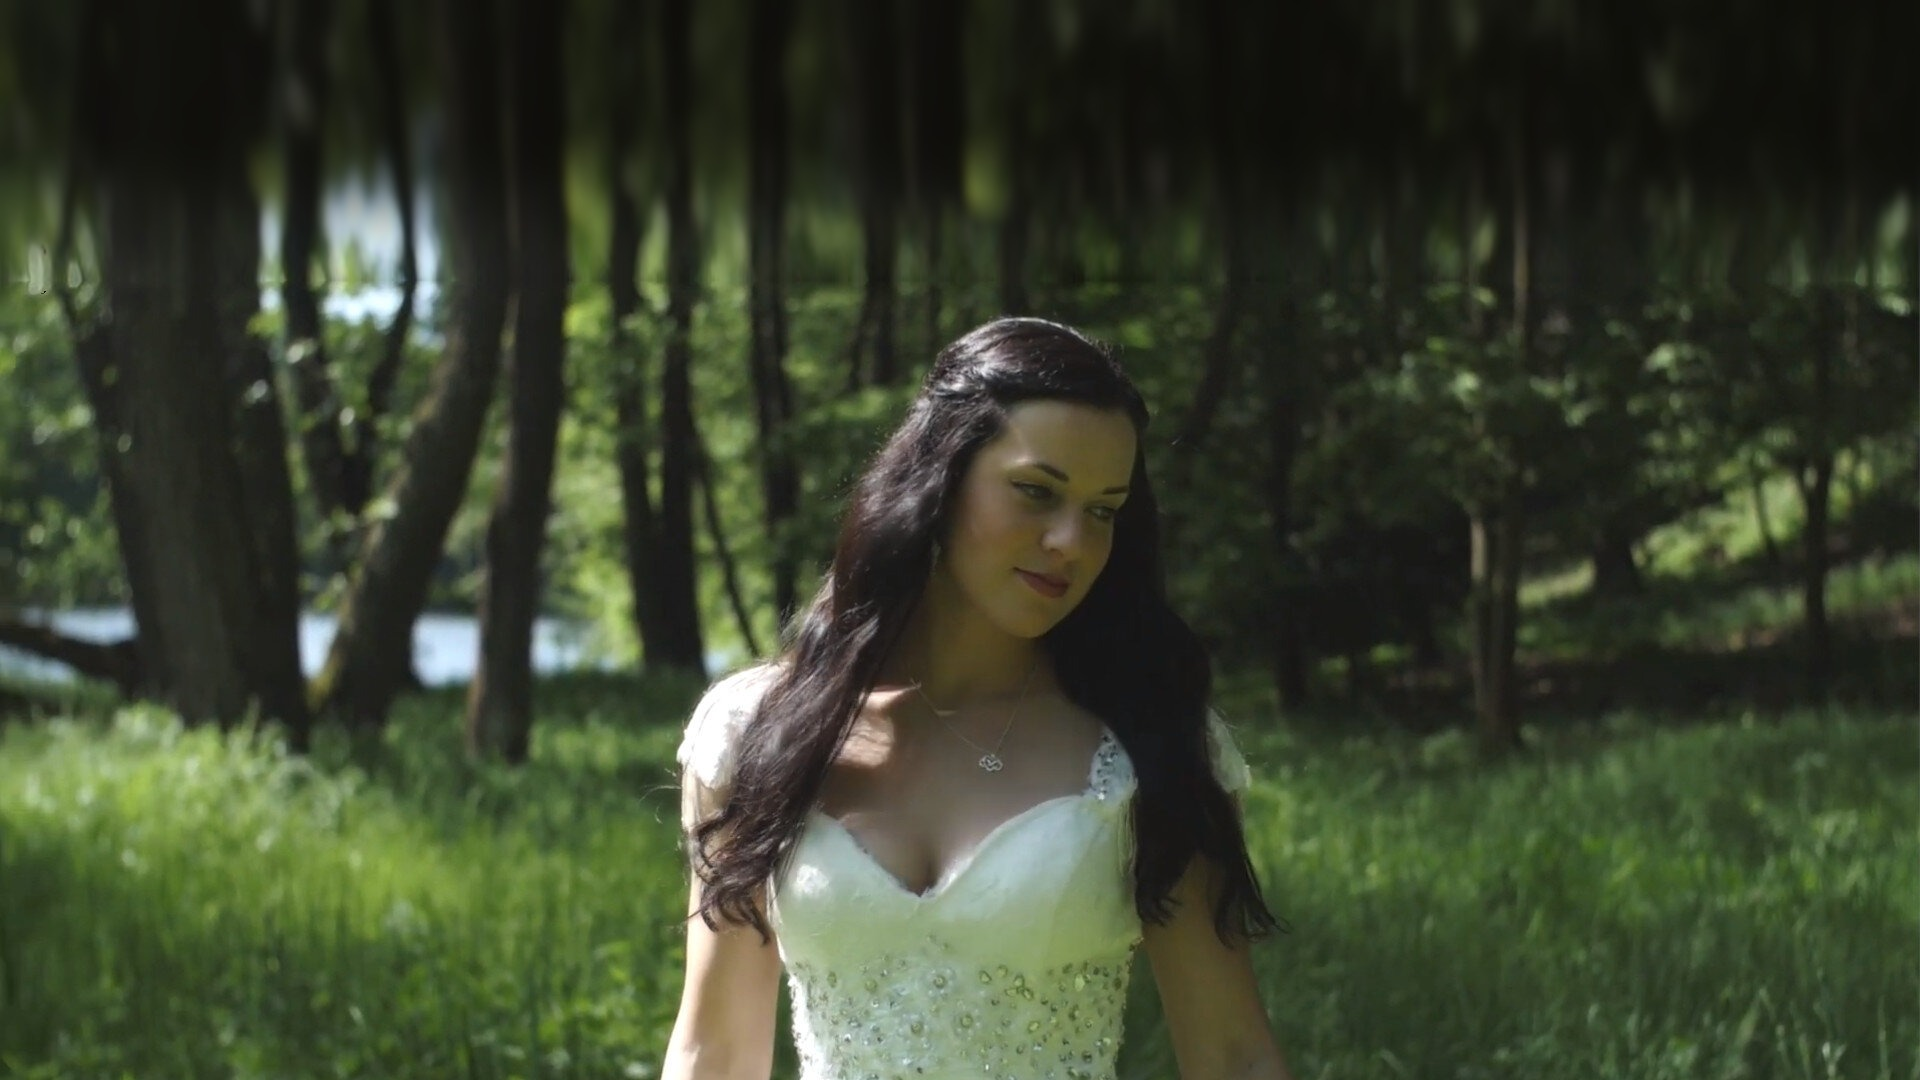
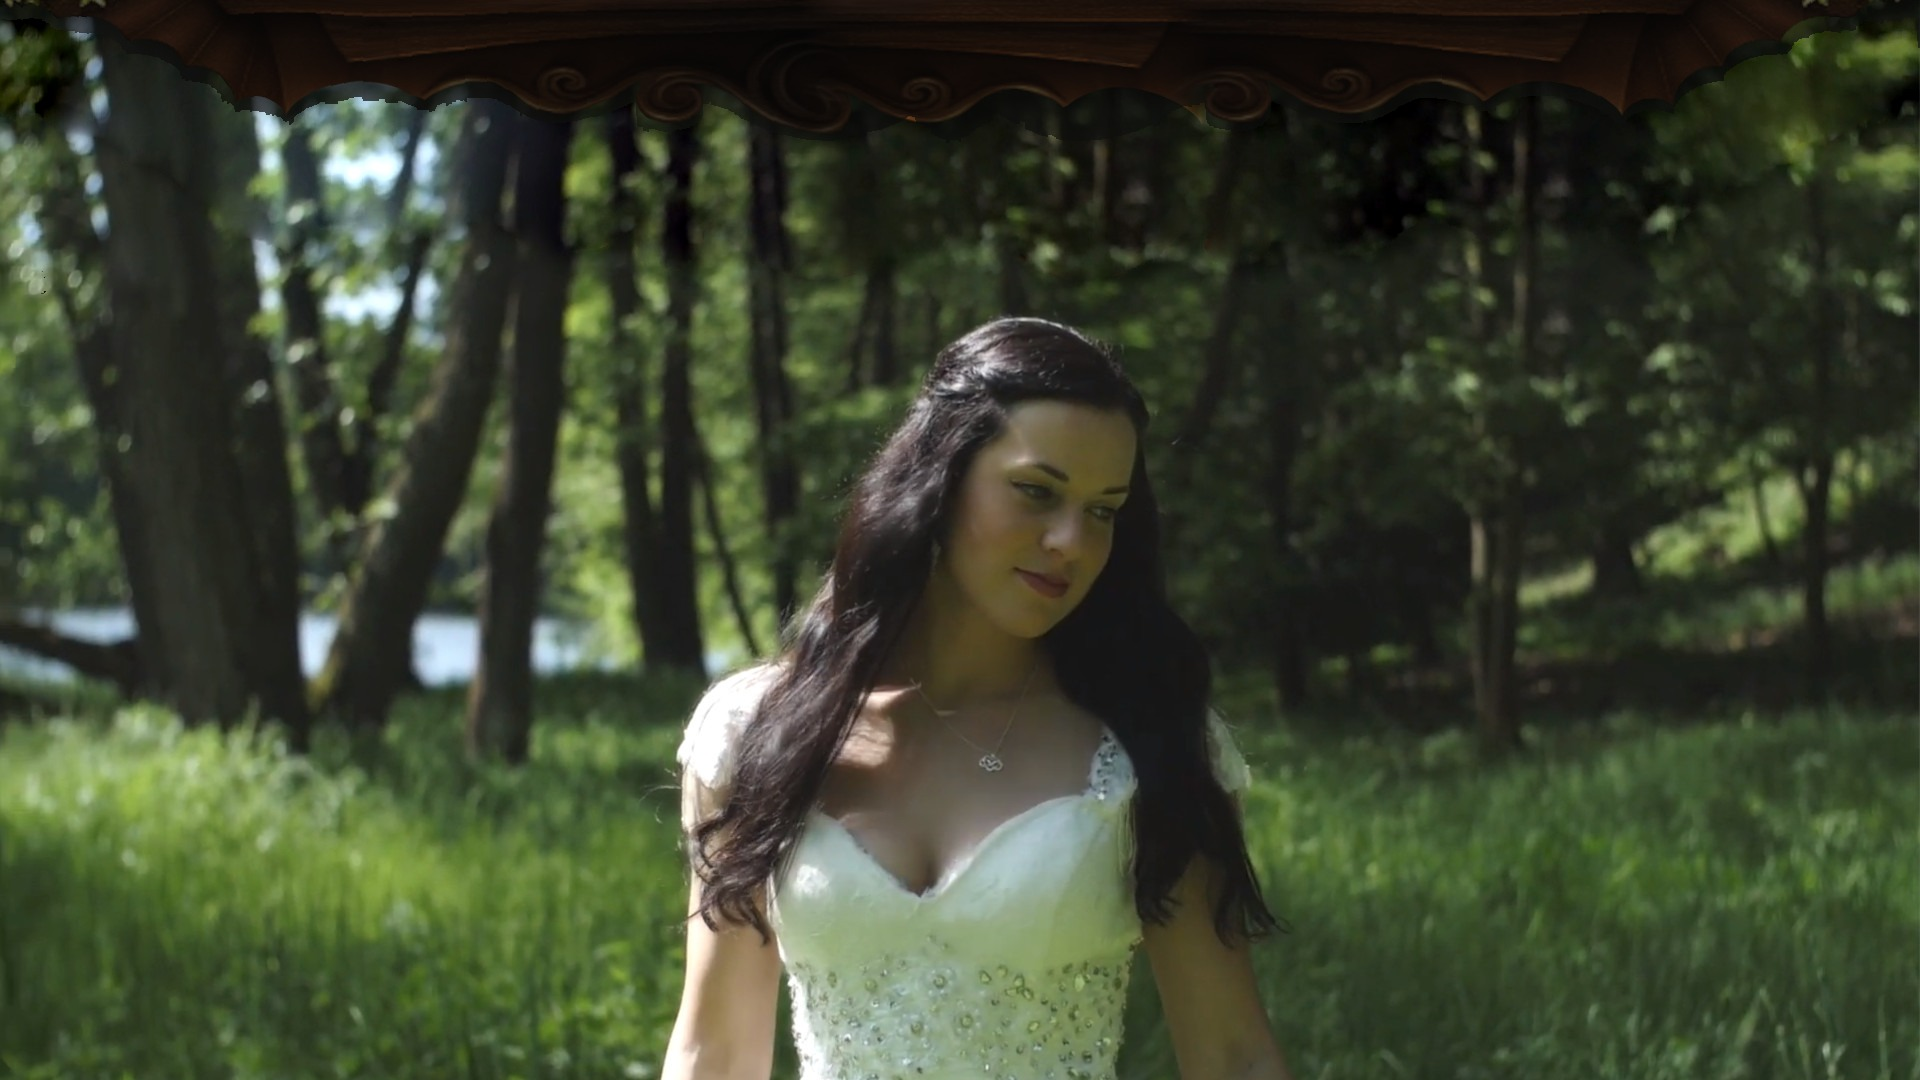
fix(drevo-a-erb-v3): real forest under the plank, rounded log ends, no halo
Review fixes from comparing v3 with v2 at 1280, 1440 and 1920:

- Under the plank the photo is now the header's own forest wherever
  v2 showed it. Only the area the old plank covered is filled, with
  forest copied up from below and Poisson-blended into the real
  pixels. Around the client's head the fill comes from beside her.
  This removes the vertical smear and the dark band under the wing
  ends, and also the old shield's shadow.
- The board's barrel-shaped end caps are squeezed into the slimmer
  board instead of being cut, so the log ends stay rounded. The ivy
  and wings at the ends sit behind the caps, and the moss strip
  covers the ivy edge the cap used to hide.
- Light or green fringe pixels baked in just inside the carved edge
  are made transparent, which removes the halo on the left scallops.

The plank heights are unchanged.

diff --git a/tools/hero-v3/build_layers.py b/tools/hero-v3/build_layers.py
@@ -1,8 +1,8 @@
 """Build the Dřevo a erb v3 hero layers from the project's own artwork.
 
 Writes assets/v3/plank.png + plank.webp (carved plank cut out of forest-header.jpg, rebuilt behind
-the shield, 74 source rows slimmer) and assets/v3/hero-forest.jpg (forest-only.jpg in its original
-place, with the rows above it filled from its own top rows).
+the shield, 74 source rows slimmer) and assets/v3/hero-forest.jpg (the same forest frame with the
+old plank area filled from the photo's own pixels).
 
 usage (from the repo root):
   python3 tools/hero-v3/build_layers.py                  # Lanczos 2x plank
@@ -14,6 +14,8 @@ import sys
 import numpy as np
 from PIL import Image, ImageFilter
 from scipy import ndimage as ndi
+from scipy.sparse import coo_matrix
+from scipy.sparse.linalg import cg
 
 ROOT = os.path.abspath(os.path.join(os.path.dirname(__file__), "..", ".."))
 A = os.path.join(ROOT, "assets")
@@ -22,11 +24,20 @@ OUT_SCALE = 2  # plank is written at 3840 px wide
 
 H1, W1 = 300, 1920
 CAP_L, CAP_R = 195, 1713     # board end caps; columns outside them are the ends (ivy, wing)
-BAND = (70, 144)             # plain board rows removed in board columns
+BOARD = (16, 150)            # rows of the top board, barrel-shaped caps included
+BAND = (70, 144)             # plain board rows removed
 DELTA = BAND[1] - BAND[0]
-END_BACK_SHIFT = 40          # the ends' top rows are backed by the same columns moved up this much
-MOSS_FADE = (14, 24)         # ...fading out between these rows, so the moss strip runs full width
+MOSS_FADE = (12, 21)         # the moss strip along the top fades out between these rows
 LEAF = (1232, 1338, 58, 94)  # the one ivy leaf that hangs into the cut band stays in place
+PLANK_SCALE_MIN = 0.75       # lowest plank-to-photo scale ratio the hero produces (wide-short screens = 1)
+
+
+def cap_left(y):   # barrel-shaped left end of the board, x of its outer edge per source row
+    return 197 + 0.0018 * (y - 65) ** 2
+
+
+def cap_right(y):
+    return 1715 - 0.0018 * (y - 65) ** 2
 
 
 def hsv(img):
@@ -38,7 +49,7 @@ def hsv(img):
 
 
 def plank_boundary(hdr):
-    """Row per column where the plank ends and the photo starts (plank above), plus a sub-pixel refine."""
+    """Row per column where the plank ends and the photo starts (plank above), refined to sub-pixel."""
     H = 330
     rgb = hdr[:H]
     hue, sat, _ = hsv(rgb)
@@ -71,7 +82,6 @@ def plank_boundary(hdr):
     yb[-1] = int(np.argmin(acc))
     for x in range(W1 - 1, 0, -1):
         yb[x - 1] = back[yb[x], x]
-    # refine to the strongest vertical colour change near the path
     sm = ndi.gaussian_filter(hdr[:H1], sigma=(0.7, 0.7, 0))
     gy = np.abs(np.diff(sm, axis=0)).sum(-1)
     ysub = np.empty(W1, np.float32)
@@ -113,7 +123,7 @@ def shield_hole(hdr):
     hole = np.zeros(hdr.shape[:2], np.float32)
     y0 = max(oy, 0)
     hole[y0:oy + h, ox:ox + w] = s[y0 - oy:, :, 3]
-    return ndi.binary_dilation(hole > 0.04, iterations=2)[:H1]
+    return ndi.binary_dilation(hole > 0.04, iterations=2)
 
 
 def over(top, bot):
@@ -123,31 +133,43 @@ def over(top, bot):
     return np.concatenate([oc, oa], -1)
 
 
-def build_plank(hdr, strip, S):
-    ysub = plank_boundary(hdr)
-    hole1 = shield_hole(hdr)
-    hue, sat, mx = hsv(hdr[:H1])
-    ivy1 = ((hue > 50) & (hue < 120) & (sat > 0.22) & (mx > 0.18))
+def with_alpha(img, m):
+    return np.concatenate([img[..., :3], img[..., 3:4] * m[..., None]], -1)
+
+
+def shift_up(img, n):
+    return np.concatenate([img[n:], np.zeros_like(img[:n])], 0)
+
+
+def build_plank(hdr, ysub, hole1, strip, S):
+    hue, sat, val = hsv(hdr[:H1])
+    ivy1 = (hue > 50) & (hue < 120) & (sat > 0.22) & (val > 0.18)
     ivy1 = ndi.binary_dilation(ndi.binary_closing(ivy1, iterations=1), iterations=1).astype(np.float32)
+    # photo fringe baked into the carved edge: light or green/blue pixels just inside the contour
+    rows1 = np.arange(H1)[:, None]
+    near = (rows1 >= np.floor(ysub)[None, :] - 3) & (rows1 <= np.floor(ysub)[None, :] + 1)
+    warm = ((hue <= 48) | (hue >= 335)) & (sat >= 0.15)
+    whitish = (sat < 0.18) & (val > 0.45)
+    fringe1 = (near & (~warm | whitish) & (val > 0.3)).astype(np.float32)
 
     H, W = H1 * S, W1 * S
-    st = strip.copy()
     up = lambda m: m.astype(np.float32) if S == 1 else np.asarray(
-        Image.fromarray((m * 255).astype(np.uint8)).resize((W, H), Image.BILINEAR)).astype(np.float32) / 255
-
+        Image.fromarray((np.clip(m, 0, 1) * 255).astype(np.uint8)).resize((W, H), Image.BILINEAR)).astype(np.float32) / 255
     xs = (np.arange(W) + 0.5) / S - 0.5
-    yS = S * (np.interp(xs, np.arange(W1), ysub) - 0.35)  # sit just inside the carved edge
     rows = np.arange(H, dtype=np.float32)[:, None]
+
+    st = strip.copy()
+    yS = S * (np.interp(xs, np.arange(W1), ysub) - 0.35)
     alpha = ndi.gaussian_filter(np.clip(yS[None, :] - rows, 0, 1), 0.45 * S)
-    inner = np.vstack([st[:2 * S], st[:-2 * S]])  # edge pixels take the wood colour from inside
-    edge = (alpha > 0.002) & (alpha < 0.995)
+    alpha = alpha * (1 - ndi.gaussian_filter(up(fringe1), 0.5 * S))
+    inner = np.vstack([st[:3 * S], st[:-3 * S]])  # edge pixels take the wood colour from inside
+    edge = (alpha > 0.002) & (rows >= (yS[None, :] - 4 * S))
     st[edge] = inner[edge]
     P = np.dstack([st, alpha])
 
-    # rebuild the wood behind the shield: mirror both neighbours inward and cross-fade in the middle.
-    # Above the rail the mirror axes are fixed at the shield's full width, so the board grain and ivy
-    # mirror straight instead of following the diagonal shield wings.
-    hole = ndi.binary_dilation(up(hole1) > 0.5, iterations=S)
+    # rebuild the wood behind the shield: mirror both neighbours inward and cross-fade in the middle;
+    # above the rail the mirror axes are fixed at the shield's full width so grain and ivy stay straight
+    hole = ndi.binary_dilation(up(hole1[:H1].astype(np.float32)) > 0.5, iterations=S)
     hx = np.where(hole.any(0))[0]
     box = (int(hx.min()), int(hx.max()))
     pre = P.copy(); pre[..., :3] *= pre[..., 3:4]
@@ -163,18 +185,54 @@ def build_plank(hdr, strip, S):
     a = pre[..., 3:4]
     P = np.concatenate([np.where(a > 1e-4, pre[..., :3] / np.maximum(a, 1e-4), 0), a], -1)
 
-    shift_up = lambda img, n: np.concatenate([img[n:], np.zeros_like(img[:n])], 0)
-    O = np.zeros_like(P)
-    cl, cr = CAP_L * S, CAP_R * S
-    b1, b2, dl, bs = BAND[0] * S, BAND[1] * S, DELTA * S, END_BACK_SHIFT * S
-    O[:b1, cl:cr + 1] = P[:b1, cl:cr + 1]
-    O[b1:H - dl, cl:cr + 1] = P[b2:, cl:cr + 1]
-    fade = np.clip((MOSS_FADE[1] * S - rows) / ((MOSS_FADE[1] - MOSS_FADE[0]) * S), 0, 1)[..., None]
-    for sl in (np.s_[:, :cl], np.s_[:, cr + 1:]):
-        seg = P[sl]
-        back = shift_up(seg, bs)
-        back = np.concatenate([back[..., :3], back[..., 3:4] * fade], -1)
-        O[sl] = over(shift_up(seg, dl), back)
+    # split into the board (with its barrel-shaped end caps) and the ends (ivy, moss, wings)
+    ysrc = (rows + 0.5) / S - 0.5
+    xsrc = xs[None, :]
+    in_board_rows = (ysrc >= BOARD[0]) & (ysrc <= BOARD[1])
+    mb = ((xsrc >= CAP_L) & (xsrc <= CAP_R)).astype(np.float32) * np.ones_like(ysrc)
+    capl = np.clip((xsrc - cap_left(ysrc)) * S + 0.5, 0, 1)
+    capr = np.clip((cap_right(ysrc) - xsrc) * S + 0.5, 0, 1)
+    zone_l = (xsrc >= CAP_L - 10) & (xsrc <= 222)
+    zone_r = (xsrc >= 1690) & (xsrc <= CAP_R + 8)
+    mb = np.where(in_board_rows & zone_l, capl, mb)
+    mb = np.where(in_board_rows & zone_r, capr, mb)
+    ends = (xsrc < 230) | (xsrc > 1683)
+    B = with_alpha(P, mb)
+    E = with_alpha(P, (1 - mb) * ends)
+
+    b1, b2, dl = BAND[0] * S, BAND[1] * S, DELTA * S
+    Bc = np.zeros_like(B)
+    Bc[:b1] = B[:b1]
+    Bc[b1:H - dl] = B[b2:]
+    # caps: squeeze the whole board height into the slimmer board so the barrel ends stay rounded
+    top, bot = BOARD[0] * S, BOARD[1] * S
+    new_bot = bot - dl
+    yo = np.arange(top, new_bot + 1)
+    yi = top + (yo - top) * (bot - top) / (new_bot - top)
+    y0i = np.floor(yi).astype(int); fy = (yi - y0i)[:, None, None]
+    Bpre = B.copy(); Bpre[..., :3] *= Bpre[..., 3:4]
+    C = Bpre[y0i] * (1 - fy) + Bpre[np.minimum(y0i + 1, H - 1)] * fy
+    wx = np.clip(np.maximum((246 - xs) / 30.0, (xs - 1662) / 30.0), 0, 1)[None, :, None]
+    Bcp = Bc.copy(); Bcp[..., :3] *= Bcp[..., 3:4]
+    Bcp[top:new_bot + 1] = Bcp[top:new_bot + 1] * (1 - wx) + C * wx
+    a = Bcp[..., 3:4]
+    Bf = np.concatenate([np.where(a > 1e-4, Bcp[..., :3] / np.maximum(a, 1e-4), 0), a], -1)
+
+    Es = shift_up(E, dl)
+    # behind the cap edges, carry the shifted ivy/wing a few pixels further in so no gap opens
+    for x0, x1, step in ((int(185 * S), int(214 * S), 1), (int(1716 * S), int(1694 * S), -1)):
+        for x in range(x0, x1, step):
+            m = (Es[:, x, 3] < 0.5) & (Es[:, x - step, 3] >= 0.5) & (np.arange(H) < 90 * S)
+            Es[m, x] = Es[m, x - step]
+    # the moss strip stays where it is across the full width, behind the raised ivy and the board;
+    # above the caps it also lies in front of the ivy, so the ivy's edge that the cap used to hide fades into it
+    fade = np.clip((MOSS_FADE[1] * S - rows) / ((MOSS_FADE[1] - MOSS_FADE[0]) * S), 0, 1)
+    moss = with_alpha(P, fade.repeat(W, 1))
+    reach = np.clip(np.minimum((xs - 178) / 18.0, (1735 - xs) / 18.0), 0, 1)[None, :]
+    moss_front = with_alpha(P, fade * reach)
+    body = with_alpha(Bf, (rows >= BOARD[0] * S).astype(np.float32).repeat(W, 1))
+    O = over(body, over(moss_front, over(Es, moss)))
+
     lx0, lx1, ly0, ly1 = [v * S for v in LEAF]
     leaf = np.zeros_like(P)
     lm = ndi.gaussian_filter(up(ivy1)[ly0:ly1, lx0:lx1][..., None], (0.6 * S, 0.6 * S, 0))
@@ -184,39 +242,63 @@ def build_plank(hdr, strip, S):
     return O[:bottom]
 
 
-def build_photo():
-    fo = np.asarray(Image.open(os.path.join(A, "forest-only.jpg")).convert("RGB")).astype(np.float32) / 255
-    TOP = 280
-    src = fo[:TOP].copy()
-    # swap the client's head (top of forest-only, x ~850-1180) for forest beside it before mirroring
-    x = np.arange(W1)
-    wx = np.clip(np.minimum(x - 820, 1210 - x) / 40.0, 0, 1)
-    wy = np.clip((np.arange(TOP) - 22) / 14.0, 0, 1)[:, None]
-    w = (wy * wx[None, :])[..., None]
-    left, right = np.roll(fo[:TOP], 400, axis=1), np.roll(fo[:TOP], -400, axis=1)
-    side = np.where((x < 1015)[None, :, None], left, right)
-    seam = np.clip(1 - np.abs(x - 1015) / 30.0, 0, 1)[None, :, None]
-    side = side * (1 - seam) + 0.5 * (left + right) * seam
-    src = src * (1 - w) + side * w
-    # mirrored and stretched 2.5x upward, blurring and darkening with distance from the seam
-    d = (TOP - 1 - np.arange(TOP)).astype(np.float32)
-    s = d * 0.4
-    s0 = np.floor(s).astype(int); f = (s - s0)[:, None, None]
-    band = src[s0] * (1 - f) + src[np.minimum(s0 + 1, TOP - 1)] * f
-    levels = [0, 1.5, 3, 5, 8]
-    blurred = [band if v == 0 else ndi.gaussian_filter(band, (v, v * 0.6, 0)) for v in levels]
-    sig = np.clip(d / 16.0, 0, 8)
-    outb = np.zeros_like(band)
-    for i in range(len(levels) - 1):
-        lo, hi = levels[i], levels[i + 1]
-        t = np.clip((sig - lo) / (hi - lo), 0, 1)[:, None, None]
-        m = ((sig >= lo) & (sig <= hi))[:, None, None] if i < len(levels) - 2 else (sig >= lo)[:, None, None]
-        outb = np.where(m, blurred[i] * (1 - t) + blurred[i + 1] * t, outb)
-    u = np.clip(d / 150.0, 0, 1)
-    k = (1 - 0.7 * u * u * (3 - 2 * u))[:, None, None]
-    outb = outb * k + np.array([0.055, 0.045, 0.03], np.float32) * (1 - k) * 0.6
-    frame = np.concatenate([outb, fo], 0)
-    return Image.fromarray((np.clip(frame, 0, 1) * 255 + 0.5).astype(np.uint8))
+def poisson_fill(frame, known, omega, guide):
+    """Fill omega so its gradients follow guide and it meets the known pixels without a seam."""
+    H, W = known.shape
+    idx = -np.ones((H, W), np.int64)
+    ys, xs = np.where(omega)
+    n = len(ys)
+    idx[ys, xs] = np.arange(n)
+    diag = np.zeros(n)
+    rr, cc = [], []
+    b = np.zeros((n, 3))
+    for dy, dx in ((-1, 0), (1, 0), (0, -1), (0, 1)):
+        yy, xx = ys + dy, xs + dx
+        ins = (yy >= 0) & (yy < H) & (xx >= 0) & (xx < W)
+        yyc, xxc = np.clip(yy, 0, H - 1), np.clip(xx, 0, W - 1)
+        nb_o = ins & (idx[yyc, xxc] >= 0)
+        nb_k = ins & known[yyc, xxc] & ~nb_o
+        valid = nb_o | nb_k
+        diag += valid
+        p = np.where(nb_o)[0]
+        rr.append(p); cc.append(idx[yyc[p], xxc[p]])
+        b[nb_k] += frame[yyc[nb_k], xxc[nb_k]]
+        b[valid] += guide[ys[valid], xs[valid]] - guide[yyc[valid], xxc[valid]]
+    rr = np.concatenate([np.arange(n)] + rr); cc = np.concatenate([np.arange(n)] + cc)
+    vals = np.concatenate([diag, -np.ones(len(rr) - n)])
+    M = coo_matrix((vals, (rr, cc)), shape=(n, n)).tocsr()
+    out = frame.copy()
+    for ch in range(3):
+        x0 = guide[ys, xs, ch]
+        sol, _ = cg(M, b[:, ch], x0=x0, rtol=1e-5, maxiter=3000)
+        out[ys, xs, ch] = sol
+    return out
+
+
+def build_photo(hdr, ysub, hole1):
+    """The header frame with the old plank (and the shield's shadow) replaced by forest from the photo."""
+    H, W = hdr.shape[:2]
+    yy = np.arange(H)[:, None]
+    unknown = (yy < np.ceil(ysub)[None, :] + 3) | hole1[:H]
+    unknown[330:] = False
+    known = ~unknown
+    # the part of the old plank area that can show under the new plank on any screen
+    ymin = np.maximum(0, PLANK_SCALE_MIN * (ysub - DELTA) - 12)
+    omega = unknown & (yy >= ymin[None, :])
+    need = ysub + 3 - ymin
+    T = ndi.gaussian_filter1d(ndi.maximum_filter1d(need, 81), 30) + 6
+    x = np.arange(W)
+    # forest copied up from below; around the client's head it comes from beside her instead
+    beta = np.clip(np.minimum((x - 800) / 50.0, (1210 - x) / 50.0), 0, 1)
+    ys_ = np.clip(yy + T[None, :].astype(int), 0, H - 1)
+    side = hdr[ys_, x[None, :]]
+    ysc = np.clip(yy + 130, 0, H - 1)
+    centre = hdr[ysc, np.clip(x + 420, 0, W - 1)[None, :]]
+    guide = side * (1 - beta[None, :, None]) + centre * beta[None, :, None]
+    out = poisson_fill(hdr.astype(np.float64), known, omega, guide.astype(np.float64))
+    hidden = unknown & ~omega
+    out[hidden] = guide[hidden] * 0.35 + 0.02
+    return Image.fromarray((np.clip(out, 0, 1) * 255 + 0.5).astype(np.uint8))
 
 
 def main():
@@ -233,11 +315,13 @@ def main():
         strip = hdr_img.crop((0, 0, W1, H1)).resize((W1 * OUT_SCALE, H1 * OUT_SCALE), Image.LANCZOS)
         strip = strip.filter(ImageFilter.UnsharpMask(radius=1.2, percent=60, threshold=2))
     st = np.asarray(strip).astype(np.float32) / 255
-    O = build_plank(hdr, st, OUT_SCALE)
+    ysub = plank_boundary(hdr)
+    hole1 = shield_hole(hdr)
+    O = build_plank(hdr, ysub, hole1, st, OUT_SCALE)
     im = Image.fromarray((np.clip(O, 0, 1) * 255 + 0.5).astype(np.uint8), "RGBA")
     im.save(os.path.join(OUT, "plank.png"), optimize=True)
     im.save(os.path.join(OUT, "plank.webp"), quality=90, method=6, alpha_quality=100)
-    build_photo().save(os.path.join(OUT, "hero-forest.jpg"), quality=92, optimize=True, progressive=True)
+    build_photo(hdr, ysub, hole1).save(os.path.join(OUT, "hero-forest.jpg"), quality=92, optimize=True, progressive=True)
     print("plank", im.size, "-> assets/v3/plank.{png,webp}; photo -> assets/v3/hero-forest.jpg")
 
 
